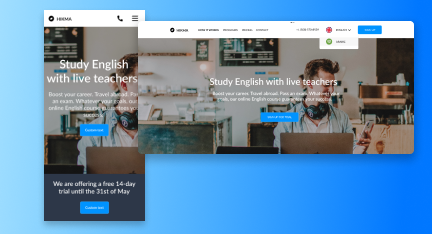
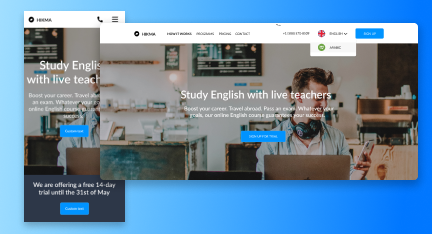
Image changed

diff --git a/src/components/ProjectSection.vue b/src/components/ProjectSection.vue
@@ -15,9 +15,6 @@
           <div class="bg-color-container flex justify-center">
             <div class="relative">
               <img class="border-radius" src="../assets/thekesh.jpg" />
-              <div>
-                <img class="absolute top-0" src="../assets/corner.svg" />
-              </div>
             </div>
           </div>
           <div class="text-center pt-6 px-6">
@@ -55,9 +52,6 @@
           <div class="bg-color-container flex justify-center">
             <div class="relative">
               <img class="border-radius" src="../assets/hikma.png" />
-              <div>
-                <img class="absolute top-0" src="../assets/corner.svg" />
-              </div>
             </div>
           </div>
           <div class="text-center pt-6 px-6">
